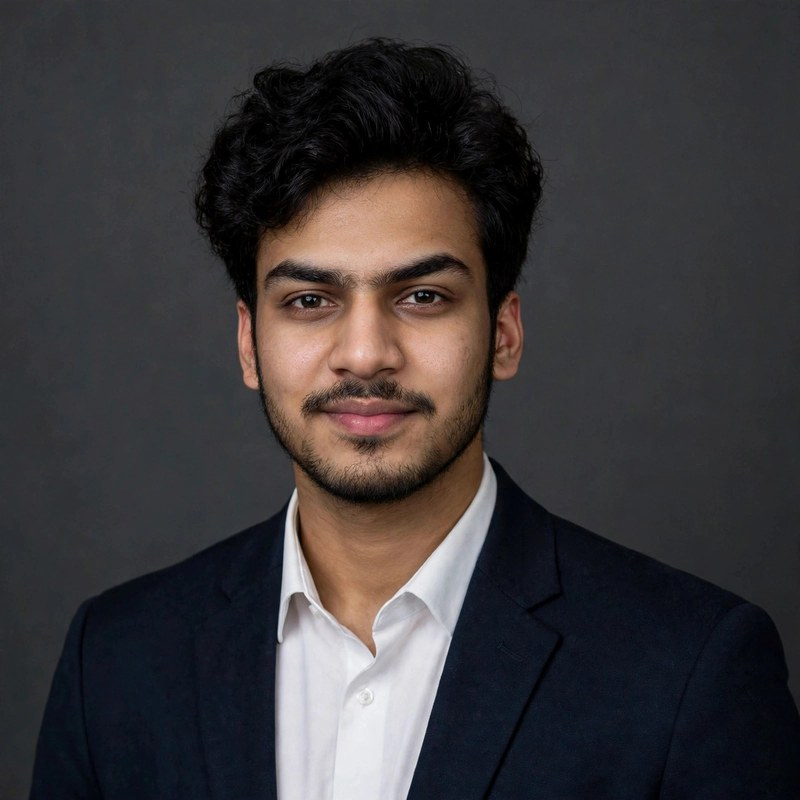
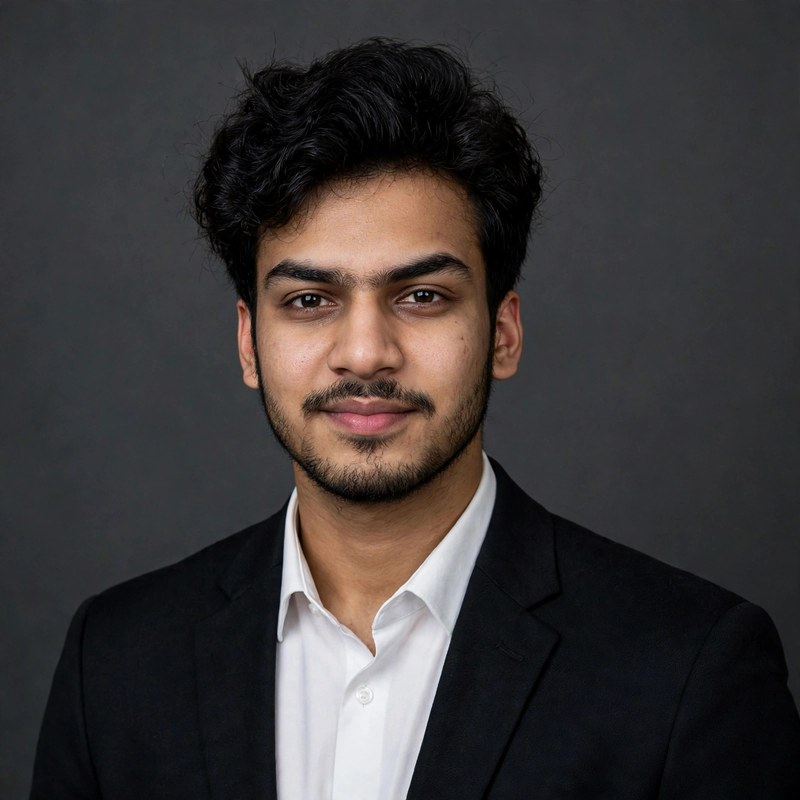
Builder Pass: black-suit photo, lanyard and bounce-back

diff --git a/site/assets/main.js b/site/assets/main.js
@@ -591,11 +591,29 @@
 (function () {
   var pass = document.getElementById("builderPass");
   if (!pass) return;
-  var dx = 0, dy = 0, sx = 0, sy = 0, dragging = false;
+  var dx = 0, dy = 0, sx = 0, sy = 0, dragging = false, spring = null;
   function apply() {
     pass.style.transform = "translate(" + dx + "px," + dy + "px) rotate(" + (dragging ? -2 : 0) + "deg) scale(" + (dragging ? 1.03 : 1) + ")";
   }
+  function easeOutElastic(t) {
+    var c4 = (2 * Math.PI) / 3;
+    return t === 0 ? 0 : t === 1 ? 1 : Math.pow(2, -10 * t) * Math.sin((t * 10 - 0.75) * c4) + 1;
+  }
+  function springBack() {
+    if (spring) cancelAnimationFrame(spring);
+    var fromX = dx, fromY = dy, start = null, dur = 750;
+    function step(ts) {
+      if (!start) start = ts;
+      var t = Math.min((ts - start) / dur, 1), e = easeOutElastic(t);
+      dx = fromX * (1 - e); dy = fromY * (1 - e);
+      apply();
+      if (t < 1) { spring = requestAnimationFrame(step); }
+      else { dx = 0; dy = 0; spring = null; apply(); }
+    }
+    spring = requestAnimationFrame(step);
+  }
   pass.addEventListener("pointerdown", function (e) {
+    if (spring) { cancelAnimationFrame(spring); spring = null; }
     dragging = true; sx = e.clientX - dx; sy = e.clientY - dy;
     pass.classList.add("dragging");
     try { pass.setPointerCapture(e.pointerId); } catch (err) {}
@@ -606,9 +624,9 @@
     dx = e.clientX - sx; dy = e.clientY - sy;
     apply();
   });
-  function end() { dragging = false; pass.classList.remove("dragging"); apply(); }
+  function end() { dragging = false; pass.classList.remove("dragging"); springBack(); }
   pass.addEventListener("pointerup", end);
   pass.addEventListener("pointercancel", end);
-  pass.addEventListener("dblclick", function () { dx = 0; dy = 0; apply(); });
+  pass.addEventListener("dblclick", function () { springBack(); });
   pass.addEventListener("dragstart", function (e) { e.preventDefault(); });
 })();

diff --git a/site/assets/style.css b/site/assets/style.css
@@ -560,11 +560,19 @@ html{scrollbar-width:thin;scrollbar-color:#26262b var(--bg)}
 .builder-pass{position:relative;width:300px;max-width:88vw;cursor:grab;touch-action:none;user-select:none;-webkit-user-select:none;z-index:5}
 .builder-pass.dragging{cursor:grabbing;z-index:60}
 .pass-strap{
-  width:54px;height:44px;margin:0 auto -14px;position:relative;z-index:1;border-radius:10px 10px 0 0;
-  background:linear-gradient(180deg,#1b1b1f,#101013);
-  border:1px solid var(--border-soft);border-bottom:none;
+  width:46px;height:74px;margin:0 auto -16px;position:relative;z-index:1;
+  clip-path:polygon(18% 0,82% 0,68% 100%,32% 100%);
+  background:
+    repeating-linear-gradient(90deg,rgba(255,255,255,.05) 0 2px,transparent 2px 4px),
+    repeating-linear-gradient(0deg,rgba(0,0,0,.25) 0 2px,transparent 2px 4px),
+    linear-gradient(90deg,#141416,#232329 50%,#141416);
+  border:none;
+  box-shadow:inset 0 0 0 1px rgba(255,255,255,.05);
 }
-.pass-strap::after{content:"";position:absolute;left:50%;bottom:8px;transform:translateX(-50%);width:30px;height:7px;border-radius:99px;background:#050506;border:1px solid rgba(255,255,255,.14)}
+.pass-strap::before{content:"";position:absolute;left:50%;bottom:9px;transform:translateX(-50%);width:16px;height:20px;border-radius:4px;
+  background:linear-gradient(90deg,#8f939c,#e8eaee 45%,#a7abb4 70%,#6f737c);
+  box-shadow:0 1px 3px rgba(0,0,0,.6),inset 0 0 0 1px rgba(0,0,0,.25)}
+.pass-strap::after{content:"";position:absolute;left:50%;bottom:2px;transform:translateX(-50%);width:30px;height:7px;border-radius:99px;background:#050506;border:1px solid rgba(255,255,255,.14)}
 .pass-card{
   position:relative;border-radius:20px;padding:20px 20px 16px;text-align:left;
   background:linear-gradient(165deg,rgba(255,255,255,.08),rgba(255,255,255,.03) 55%,rgba(255,41,22,.05));
